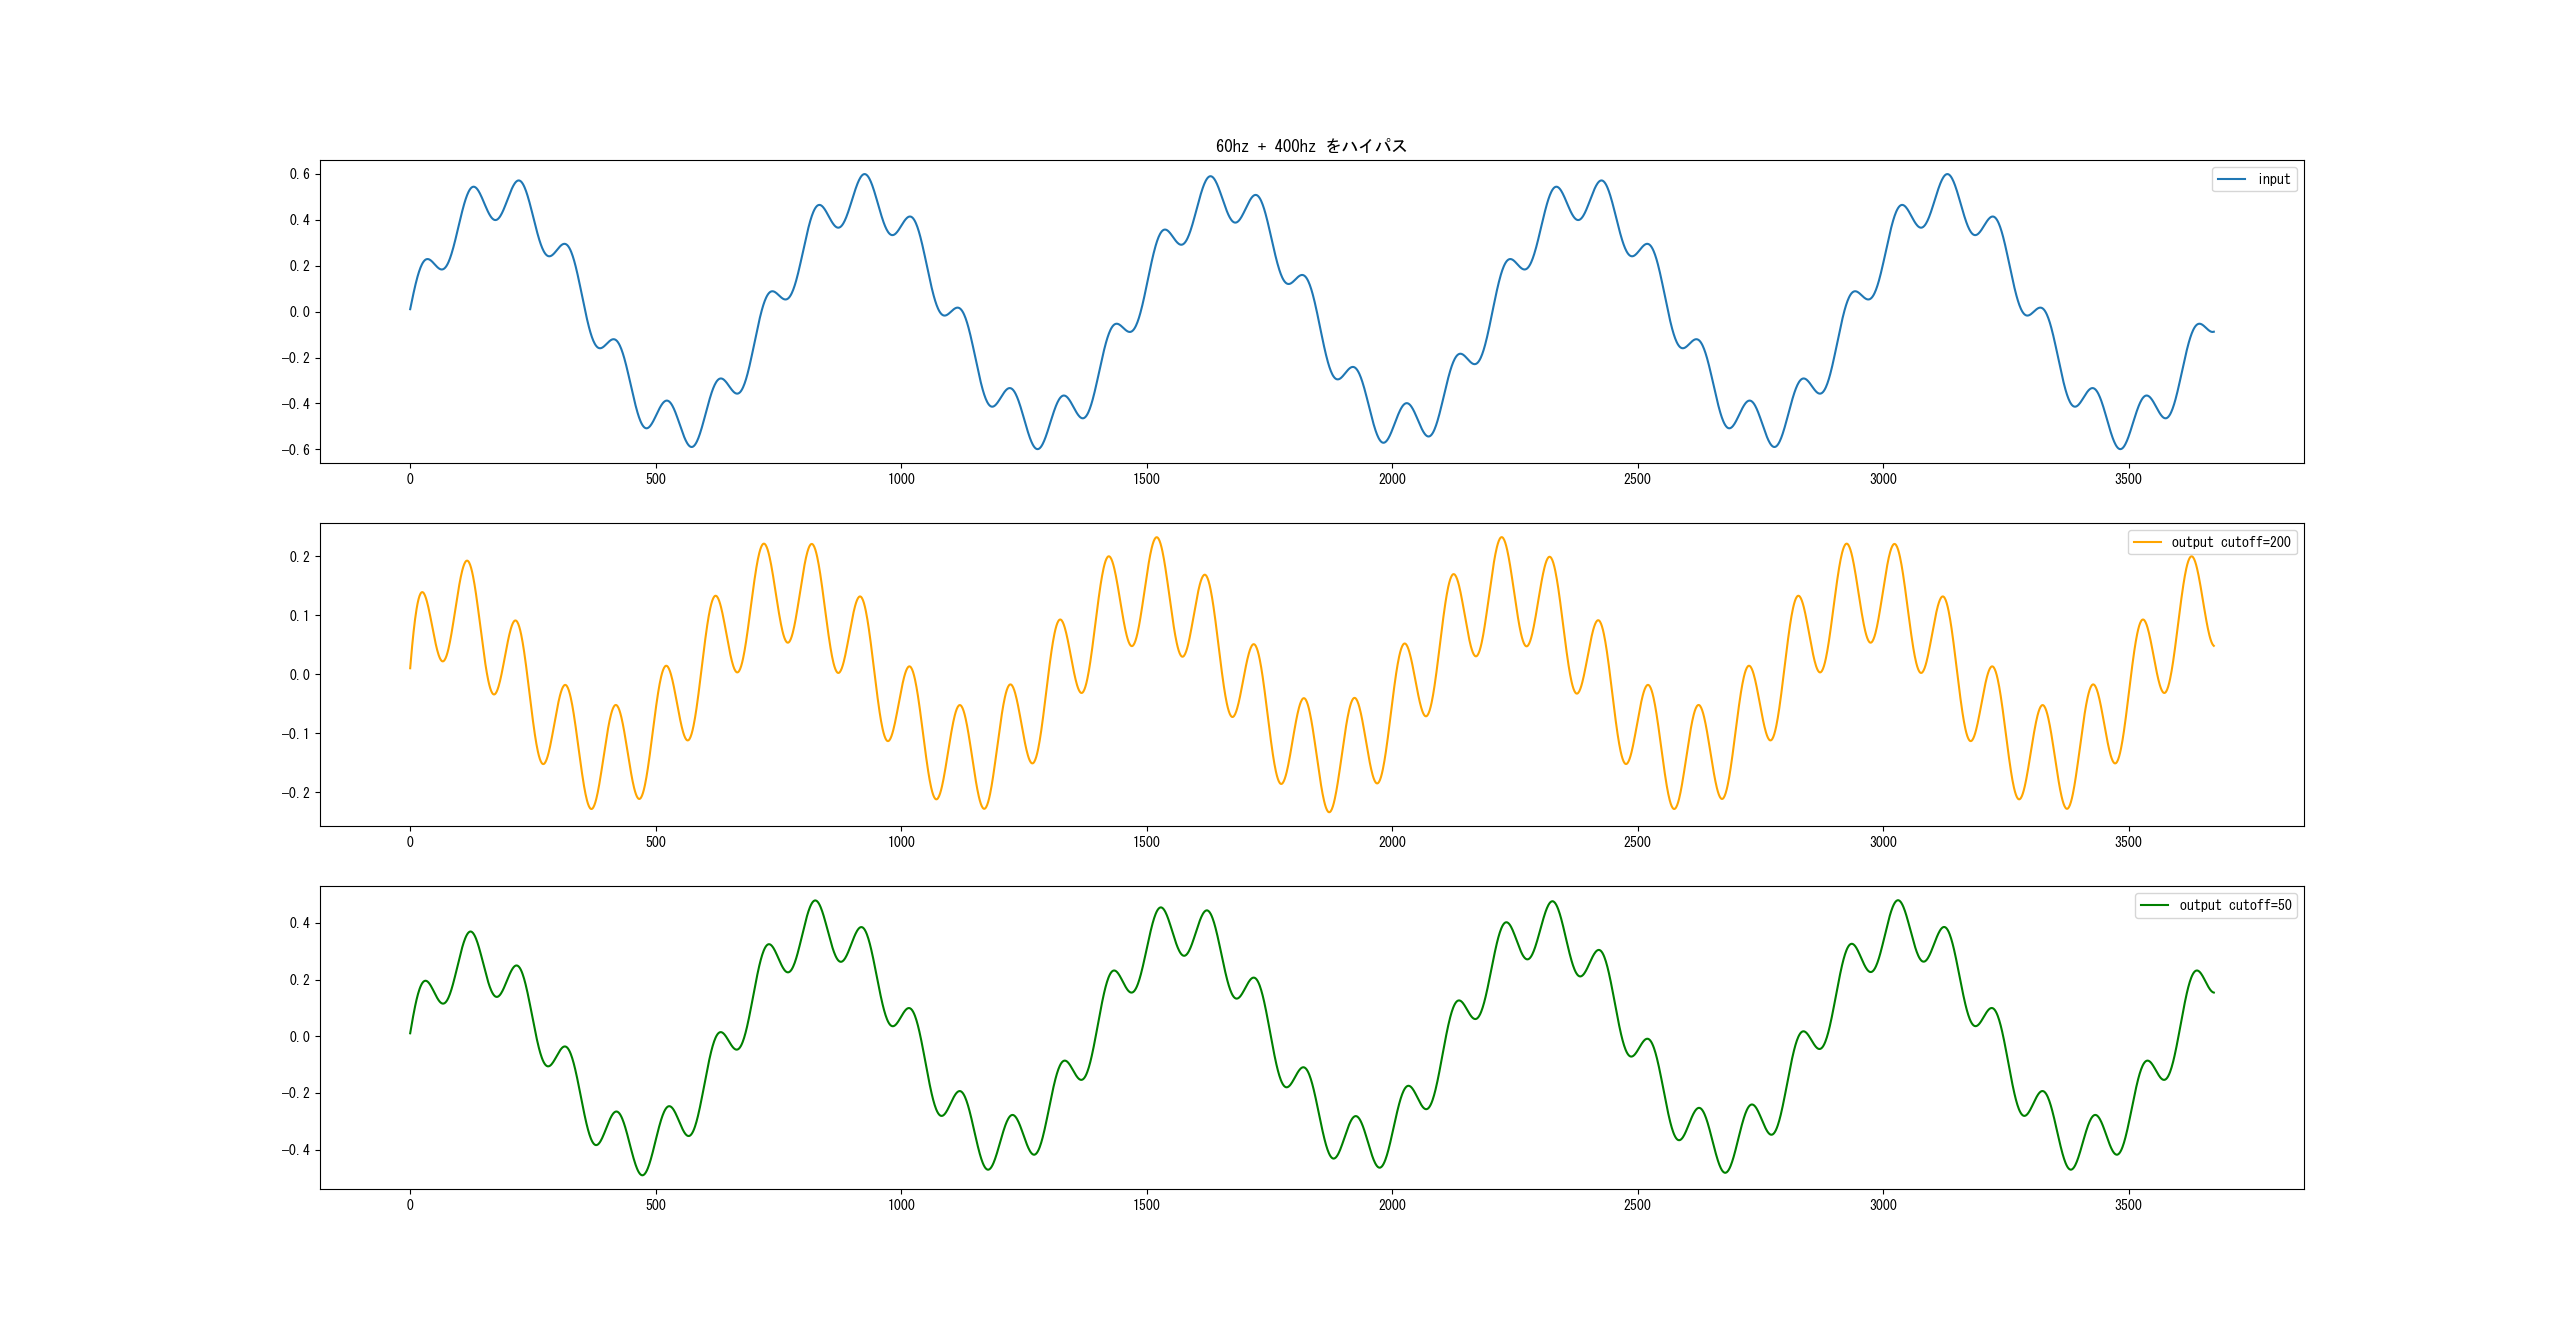
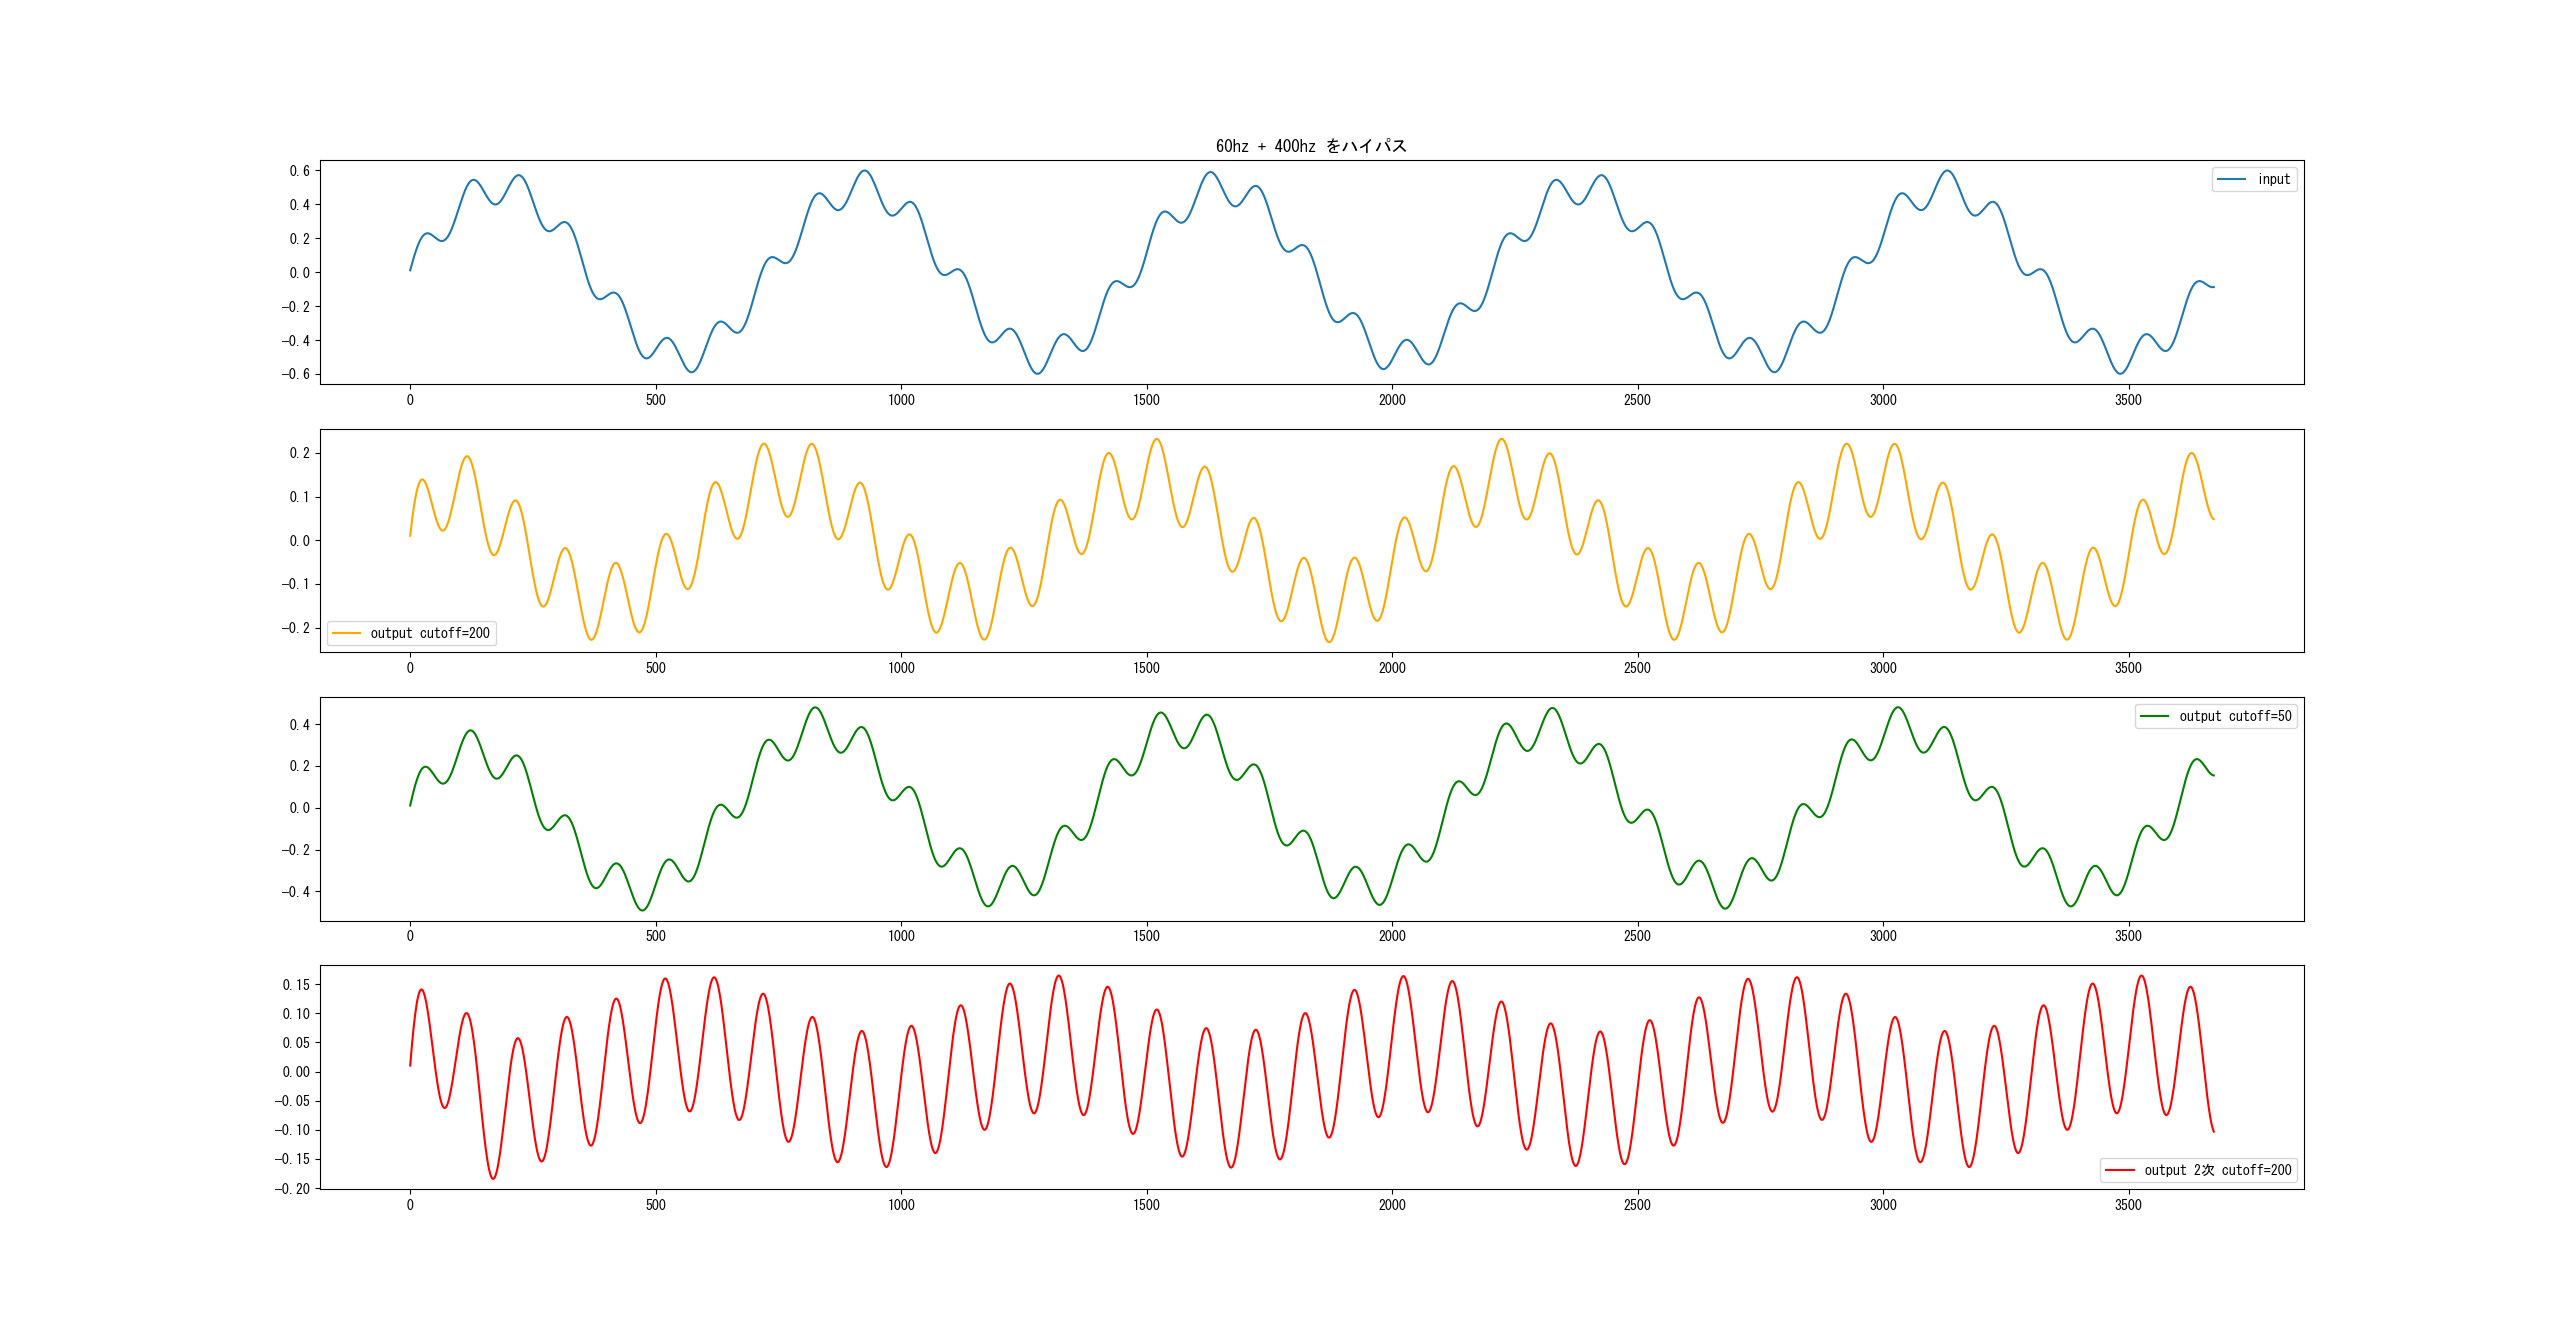
2次フィルタをテスト。

diff --git a/main.cpp b/main.cpp
@@ -33,6 +33,57 @@ private:
     float prevOutput;  // 直前の出力値
 };
 
+// 2次ハイパスフィルタのクラス定義
+class SecondOrderHighPassFilter {
+public:
+    SecondOrderHighPassFilter(float sampleRate, float cutoffFrequency) {
+        setParameters(sampleRate, cutoffFrequency);
+        prevInput1 = prevInput2 = 0.0f;
+        prevOutput1 = prevOutput2 = 0.0f;
+    }
+
+    // サンプリングレートとカットオフ周波数を設定
+    void setParameters(float sampleRate, float cutoffFrequency) {
+        float omega = 2.0f * std::numbers::pi * cutoffFrequency / sampleRate;
+        float sin_omega = std::sin(omega);
+        float cos_omega = std::cos(omega);
+        float alpha = sin_omega / (2.0f * std::sqrt(2.0f)); // Q = sqrt(2)/2 for Butterworth filter
+
+        b0 = (1.0f + cos_omega) / 2.0f;
+        b1 = -(1.0f + cos_omega);
+        b2 = (1.0f + cos_omega) / 2.0f;
+        a0 = 1.0f + alpha;
+        a1 = -2.0f * cos_omega;
+        a2 = 1.0f - alpha;
+
+        // Normalize the coefficients
+        b0 /= a0;
+        b1 /= a0;
+        b2 /= a0;
+        a1 /= a0;
+        a2 /= a0;
+    }
+
+    // サンプルをフィルタリング
+    float processSample(float inputSample) {
+        float output = b0 * inputSample + b1 * prevInput1 + b2 * prevInput2
+                       - a1 * prevOutput1 - a2 * prevOutput2;
+
+        prevInput2 = prevInput1;
+        prevInput1 = inputSample;
+        prevOutput2 = prevOutput1;
+        prevOutput1 = output;
+
+        return output;
+    }
+
+private:
+    float b0, b1, b2;  // フィルタ係数
+    float a0, a1, a2;  // フィルタ係数
+    float prevInput1, prevInput2;   // 直前の入力値
+    float prevOutput1, prevOutput2; // 直前の出力値
+};
+
 std::vector< float > make_input( float sampleRate )
 {
     std::vector< float > v;
@@ -83,6 +134,13 @@ int main() {
         outputSignal2.push_back(filteredSample);
     }
 
+    SecondOrderHighPassFilter f3( sampleRate, 200.f );
+    std::vector<float> output3;
+
+    for (float sample : inputSignal) {
+        output3.push_back( f3.processSample( sample ) );
+    }
+
     // 結果を出力
     /*
     std::cout << "Filtered Signal: ";
@@ -95,6 +153,7 @@ int main() {
     save_csv( inputSignal, "input.csv" );
     save_csv( outputSignal, "output.csv" );
     save_csv( outputSignal2, "output2.csv" );
+    save_csv( output3, "output3.csv" );
 
     return 0;
 }

diff --git a/show.py b/show.py
@@ -15,15 +15,17 @@ def normalize( df ):
     return df
 
 plt.rcParams[ "font.family" ] = "MS Gothic"
-fig, axes = plt.subplots( 3, 1 )
+fig, axes = plt.subplots( 4, 1 )
 
 i = pd.read_csv( "./input.csv" )
 o = pd.read_csv( "./output.csv" )
 o2 = pd.read_csv( "./output2.csv" )
+o3 = pd.read_csv( "./output3.csv" )
 
 i.columns = [ 'input' ]
 o.columns = [ 'output cutoff=200' ]
 o2.columns = [ 'output cutoff=50' ]
+o3.columns = [ 'output 2次 cutoff=200' ]
 
 # i = normalize( i )
 # o = normalize( o )
@@ -32,4 +34,5 @@ o2.columns = [ 'output cutoff=50' ]
 i.plot( title="60hz + 400hz をハイパス", ax=axes[0] )
 o.plot( ax=axes[1], color='orange' )
 o2.plot( ax=axes[2], color='green' )
+o3.plot( ax=axes[3], color='red' )
 plt.show()
